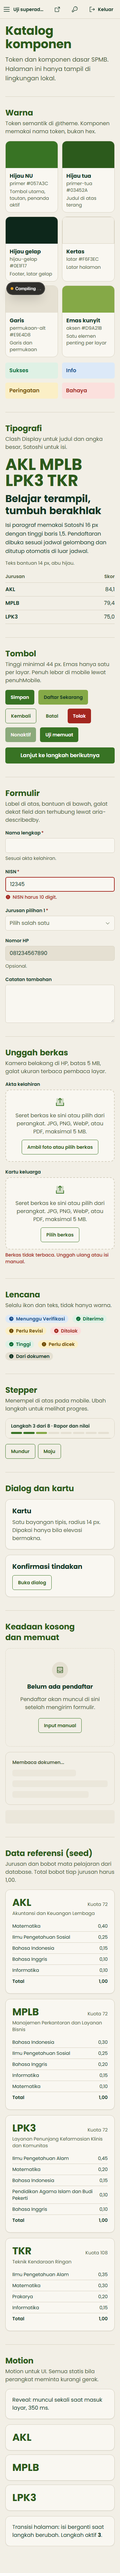
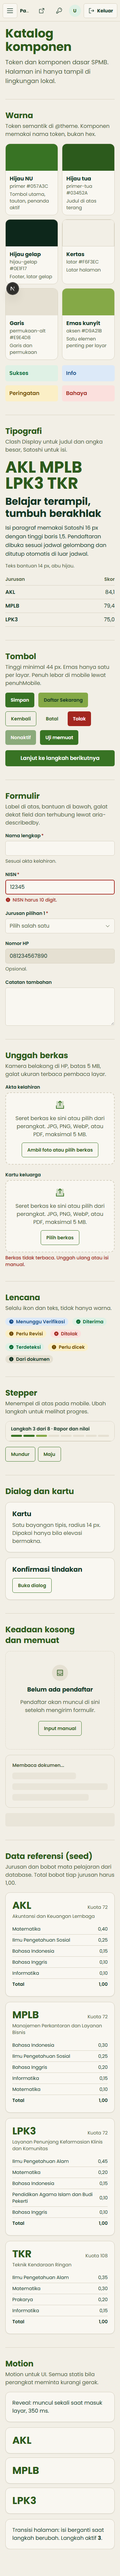
fix(landing): navbar mobile, kata utuh pada judul, dan tangkapan desain baru
Menu mobile dipindah keluar dari header karena backdrop-blur membuat elemen fixed relatif ke header. SplitText memakai level words agar kata tidak terputus saat baris dibungkus.

diff --git a/src/components/layout/navbar.tsx b/src/components/layout/navbar.tsx
@@ -27,13 +27,14 @@ export function Navbar({ logo }: { logo: string }) {
   }, [buka]);
 
   return (
+    <>
     <header className="sticky top-0 z-30 border-b border-garis bg-latar/95 backdrop-blur-sm">
       <div className="wadah flex h-16 items-center justify-between gap-4">
-        <Link href="/" className="flex items-center gap-3 font-display text-lg font-extrabold leading-none text-primer-tua">
+        <Link href="/" className="flex items-center min-w-0 gap-3 font-display text-base font-extrabold leading-tight text-primer-tua sm:text-lg sm:leading-none">
           <GambarLogo src={logo} width={40} height={40} className="size-10 object-contain" priority />
           <span>
             SMK Ma&apos;arif NU 1 Wangon
-            <span className="mt-1 block text-xs font-semibold tracking-wide text-tinta-redup">SPMB</span>
+            <span className="mt-0.5 block text-xs sm:mt-1 font-semibold tracking-wide text-tinta-redup">SPMB</span>
           </span>
         </Link>
 
@@ -65,11 +66,13 @@ export function Navbar({ logo }: { logo: string }) {
           </button>
         </div>
       </div>
+    </header>
 
+      {/* Di luar <header>: backdrop-blur membuat elemen fixed relatif ke header (tinggi 64px), bukan layar. */}
       {buka && (
         <div
           id="menu-mobile"
-          className="fixed inset-x-0 bottom-0 top-16 z-20 overflow-y-auto bg-latar px-4 py-6 lg:hidden"
+          className="fixed inset-x-0 bottom-0 top-16 z-[60] overflow-y-auto bg-latar px-4 py-6 lg:hidden"
         >
           <nav aria-label="Menu utama" className="flex flex-col">
             {tautan.map((t) => (
@@ -90,6 +93,6 @@ export function Navbar({ logo }: { logo: string }) {
           </Link>
         </div>
       )}
-    </header>
+    </>
   );
 }

diff --git a/src/features/landing/hero.tsx b/src/features/landing/hero.tsx
@@ -111,9 +111,9 @@ export function Hero({
       const teks = el.querySelector<HTMLElement>("[data-teks]");
 
       // Masuk: huruf judul naik dari balik topeng baris, lalu sisanya menyusul.
-      const split = judul ? SplitText.create(judul, { aria: "none", type: "lines,chars", mask: "lines", linesClass: "baris", charsClass: "huruf" }) : null;
+      const split = judul ? SplitText.create(judul, { aria: "none", type: "lines,words,chars", mask: "lines", linesClass: "baris", wordsClass: "kata-utuh", charsClass: "huruf" }) : null;
       const masuk = gsap.timeline({ delay: 0.15 });
-      if (split) masuk.from(split.chars, { yPercent: 115, rotate: 6, duration: 0.9, ease: "expo.out", stagger: 0.018 });
+      if (split) masuk.from(split.chars, { yPercent: 115, duration: 0.8, ease: "expo.out", stagger: 0.012 });
       masuk
         .from("[data-masuk]", { opacity: 0, y: 18, duration: 0.6, ease: "power3.out", stagger: 0.08 }, "-=0.55")
         .from(foto, { yPercent: 14, duration: 1.1, ease: "expo.out" }, "-=0.9");

diff --git a/src/features/landing/penutup.tsx b/src/features/landing/penutup.tsx
@@ -13,7 +13,7 @@ export function Penutup({ logo }: { logo: string }) {
   useGsapPublik(akar, {
     animasi: ({ gsap, SplitText, akar: el }) => {
       const judul = el.querySelector<HTMLElement>("[data-judul-penutup]");
-      const split = judul ? SplitText.create(judul, { aria: "none", type: "lines,chars", mask: "lines", linesClass: "baris" }) : null;
+      const split = judul ? SplitText.create(judul, { aria: "none", type: "lines,words,chars", mask: "lines", linesClass: "baris", wordsClass: "kata-utuh" }) : null;
       if (split) {
         gsap.from(split.chars, {
           yPercent: 120,

diff --git a/src/styles/globals.css b/src/styles/globals.css
@@ -148,6 +148,12 @@
     margin-bottom: -0.14em;
   }
 
+  /* Kata hasil SplitText: tidak boleh terputus di tengah kata saat baris dibungkus. */
+  .kata-utuh {
+    display: inline-block;
+    white-space: nowrap;
+  }
+
   h1,
   h2,
   h3,
